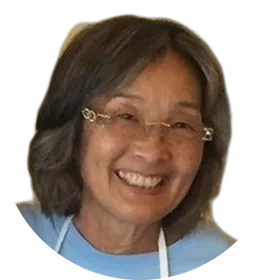
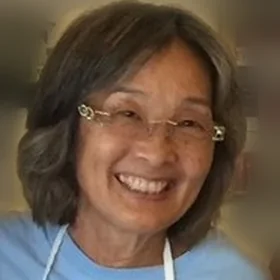
Photo: original background, softly blurred, instead of the cutout
- Rebuilt carolyn.webp from the original photo: Carolyn kept sharp over a blurred,
  slightly darkened and desaturated copy of the background, joined with a soft
  feathered person mask (no hard edge); square image, rounded by CSS
- Fallback is now carolyn.jpg (replaces carolyn.png)

diff --git a/COL/index.html b/COL/index.html
@@ -9,7 +9,7 @@
   // What viewers see when the stream is NOT live (before it starts, or when
   // the admin page is set to "interrupted").
   const PLACEHOLDER = {
-    // Round photo above the heading (file in the COL folder). A .png with the same
+    // Round photo above the heading (file in the COL folder). A .jpg with the same
     // name is used as a fallback for older browsers. Leave "" to hide it.
     photo: "carolyn.webp",
     // Small line above the heading. Leave "" to hide it.
@@ -276,7 +276,7 @@
         src.type = "image/webp";
         src.srcset = c.photo;
         pic.appendChild(src);
-        img.src = c.photo.replace(/\.webp$/i, ".png");
+        img.src = c.photo.replace(/\.webp$/i, ".jpg");
       } else img.src = c.photo;
       pic.appendChild(img);
       box.appendChild(pic);

diff --git a/README.md b/README.md
@@ -16,7 +16,7 @@ Vanilla HTML/JS, no build step. Uses only free GitHub Pages and GitHub Actions.
 |---|---|
 | `index.html` | Root landing page for nomura.network, with a button to `COL/`. |
 | `COL/index.html` | Viewer page. Embeds the YouTube stream from `COL/stream.json` (polled every 30 s) and shows a configurable placeholder when not live (edit the `PLACEHOLDER` block at the top). Preview layouts with `?preview=live|waiting|transition&video=<id>`. Its own full-screen button keeps the themed look; on iPhone Safari (no element full screen) YouTube's native full-screen button is used instead. |
-| `COL/carolyn.webp`, `COL/carolyn.png` | Round photo on the placeholder (`PLACEHOLDER.photo`; the .png is the fallback). |
+| `COL/carolyn.webp`, `COL/carolyn.jpg` | Round photo on the placeholder (`PLACEHOLDER.photo`; the .jpg is the fallback). |
 | `COL/admin.html` | Streamer page. Takes a URL, a status and a token, then sends a `repository_dispatch` to the GitHub API. |
 | `col/index.html` | Redirects lowercase `/col/` to `/COL/` (keeps the query string). |
 | `COL/stream.json` | `{"url": "..." or "" (cleared), "status": "live"\|"interrupted", "updated": "<ISO time>"}` |
